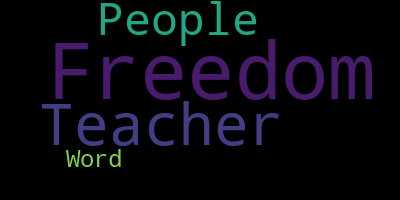
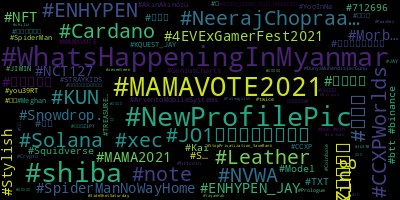
bwy Update ss_receiver & pipeline

diff --git a/frontend/src/components/HashtagRank.vue b/frontend/src/components/HashtagRank.vue
@@ -34,8 +34,12 @@ export default {
     },
   },
   created() {
-    this.getRank();
+    setInterval(this.getRank(), 1000);
+    //this.getRank();
   },
+  beforeUnmount(){
+    clearInterval(this.imagePath);
+  }
 }
 </script>
 

diff --git a/kafka_py/ss_receiver_proc_aggregation.py b/kafka_py/ss_receiver_proc_aggregation.py
@@ -35,30 +35,44 @@ if __name__ == "__main__":
     # sc.setLogLevel('ERROR')
     # ssc = StreamingContext(sc, 5)
 
-    spark = SparkSession.builder.appName('spark_word2vec').getOrCreate()
+    spark = SparkSession.builder.appName('spark_streaming').getOrCreate()
 
     spark.sparkContext.setLogLevel("WARN")
-    topic = 'quickstart-events'
+    topic = 'Twitter_streaming'
+    # topic = 'debug'
     bootstrap_servers = 'localhost:9092'
-    
+
     df = spark \
         .readStream \
         .format("kafka") \
         .option("kafka.bootstrap.servers", bootstrap_servers) \
         .option("subscribe", topic) \
         .load()
-    # df.selectExpr("CAST(key AS STRING)", "CAST(value AS STRING)") 
+    # df.selectExpr("CAST(key AS STRING)", "CAST(value AS STRING)")
 
     # Decode and Split the lines into words
+
+   # def get_text_info(x):
+   #     # spark sql json deserialize
+   #     # json_schema = spark.read.json(words.rdd.map(lambda row: row.json)).schema
+   #     text_map = from_json(x, "MAP<STRING,STRING>")
+   #     text_map = from_json(text_map["data"], "MAP<STRING,STRING>")
+   #     print("get_text_info:", text_map["text"], "!!!!!!!!!")
+   #     return text_map["text"]
+
+    @udf(returnType=StringType())
     def get_text_info(x):
-        # spark sql json deserialize 
+        # spark sql json deserialize
         # json_schema = spark.read.json(words.rdd.map(lambda row: row.json)).schema
-        text_map = from_json(x, "MAP<STRING,STRING>")
-        text_map = from_json(text_map["data"], "MAP<STRING,STRING>")
-        return text_map["text"]
-    
+        # print("get text info: input ------", x)
+        text_map = json.loads(x)['data']['text']
+        # text_map = from_json(text_map["data"], "MAP<STRING,STRING>")
+        # print("get_text_info:", text_map, "!!!!!!!!!")
+        return text_map
+
     @udf(returnType=StringType())
     def getHashTag(text):
+        # print("getHashTag:", text, ">>>>>>>>>>>")
         # hashtag & http
         # st = time.time()
         text = text.split(" ")
@@ -66,7 +80,7 @@ if __name__ == "__main__":
         for word in text:
             if word.startswith("#"):
                 hashtag_list.append(word)
-        
+
         hashtag = " ".join(hashtag_list)
         # print('hashtag time', time.time()-st)
         return hashtag
@@ -78,7 +92,7 @@ if __name__ == "__main__":
         text = text.split(" ")
         text = [word for word in text if word != "RT" or word[0] != "@" \
             or not word.startswith("#") or not word.startswith("http")]
-    
+
         # not english words
         text = " ".join(text)
         final_words = engtextproc.process(text)
@@ -88,7 +102,7 @@ if __name__ == "__main__":
     # engtextproc.load_vector_model()
     # vector_model = engtextproc.get_vector_model()
     @udf(returnType=StringType())
-    def get_vector(x):  
+    def get_vector(x):
         # global model
         print(type(x), x)
         words = x.split(" ")
@@ -103,7 +117,7 @@ if __name__ == "__main__":
         #         vector_lines.append([0.0])
         # print(vector_lines)
         return vector_lines
-        
+
     from pyspark.sql.functions import from_json, col
     # decode
     words = df.withColumn('value', decode(df.value, 'UTF-8'))  #.map(get_info)
@@ -139,21 +153,24 @@ if __name__ == "__main__":
         .groupBy(window(words.timestamp, "20 seconds", "5 seconds"),"hashtag") \
         .count()
 
-    # aggregation_query = words \
-    #     .writeStream \
-    #     .outputMode("update") \
-    #     .format("kafka") \
-    #     .option("checkpointLocation", "./wordcount_checkpoint") \
-    #     .option("kafka.bootstrap.servers", bootstrap_servers) \
-    #     .option("topic", "word_count") \
-    #     .start()
+    wordCounts.withColumn("value", wordCounts.hashtag)
 
     aggregation_query = wordCounts \
+        .selectExpr("CAST(window AS STRING) AS key", "to_json(struct(*)) AS value") \
         .writeStream \
-        .outputMode("complete") \
-        .format("console") \
-        .option("truncate", False) \
+        .outputMode("update") \
+        .format("kafka") \
+        .option("checkpointLocation", "./Twitter_WordCount_Checkpoint") \
+        .option("kafka.bootstrap.servers", bootstrap_servers) \
+        .option("topic", "Twitter_WordCount") \
         .start()
+
+    # aggregation_query = wordCounts \
+    #     .writeStream \
+    #     .outputMode("complete") \
+    #     .format("console") \
+    #     .option("truncate", False) \
+    #     .start()
 
     aggregation_query.awaitTermination()
 

diff --git a/kafka_py/stream_API.py b/kafka_py/stream_API.py
@@ -1,18 +1,19 @@
-import requests
-import os
-import json
 from kafka import KafkaProducer
-
+import json
+import math
+import os
+import requests
 import time
 
 # To set your environment variables in your terminal run the following line:
 # export 'BEARER_TOKEN'='<your_bearer_token>ß'
 bearer_token = os.environ.get("BEARER_TOKEN")
 bootstrap_server = "localhost:9092"
-
+topic = "Twitter_streaming"
+# topic = "debug"
 print(bearer_token)
 
-class twitter_stream():
+class TwitterStream():
     def create_url(self):
         return "https://api.twitter.com/2/tweets/sample/stream?expansions=author_id"
 
@@ -34,18 +35,33 @@ class twitter_stream():
         response = requests.request("GET", url, auth=self.bearer_oauth, stream=True)
         print(response.status_code)
         msg_cnt = 0
+        msg_all = 0
+        time_log = TimeLog()
+
         for response_line in response.iter_lines():
             if response_line:
                 json_response = json.loads(response_line)
                 if debug:
-                    print(json.dumps(json_response, indent=4, sort_keys=True))
+                    pass
+                    # print(json.dumps(json_response, indent=4, sort_keys=True))
                 if kafka_producer:
-                    kafka_producer.send("quickstart-events", json_response)
+                    kafka_producer.send(topic, json_response)
                 self.save_json_resp(json_response, f)
                 msg_cnt += 1
                 if num_to_get != None and msg_cnt >= num_to_get:
+                    msg_all += msg_cnt
+                    print("Current Batch:{}".format(msg_cnt))
+                    print("From Start:{:.2f} Seconds".format(time_log.from_start()))
+                    print("Since Last Time: {:.2f} Seconds".format(time_log.from_last()))
+                    print("Current Twitter API Speed: {} Tweets/Second".format(
+                            math.floor(msg_cnt / time_log.from_last())))
+                    print("Average Twitter API Speed: {} Tweets/Second".format(
+                            math.floor(msg_all / time_log.from_start())))
+                    time_log.lap()
+                    print("___________________Next Batch___________________")
                     kafka_producer.flush()
-                    #time.sleep(5)
+                    msg_cnt = 0
+                    # time.sleep(5)
                     # break
         if response.status_code != 200:
             raise Exception(
@@ -54,16 +70,36 @@ class twitter_stream():
                 )
             )
 
+class TimeLog():
+    def __init__(self):
+        self.start_time = time.time()
+        self.last_time = time.time()
+
+    def from_start(self):
+        current_time = time.time()
+        # return diff time, unit seconds
+        return current_time - self.start_time
+
+    def from_last(self):
+        current_time = time.time()
+        res = current_time - self.last_time
+        return res
+
+    def lap(self):
+        self.last_time = time.time()
+        return
+
+
 
 def main():
     producer = KafkaProducer(value_serializer=lambda v: json.dumps(v).encode('utf-8'),
             bootstrap_servers=bootstrap_server)
 
-    stream_ins = twitter_stream()
+    stream_ins = TwitterStream()
     timeout = 0
     f = open('tmp_data_folder/sampled_data_save_t1.txt', 'w')
     while True:
-        stream_ins.connect_to_endpoint(f, producer, 10)
+        stream_ins.connect_to_endpoint(f, producer, 100)
         timeout += 1
         break
 

diff --git a/kafka_py/word_count_consumer.py b/kafka_py/word_count_consumer.py
@@ -7,6 +7,7 @@ import datetime
 import wordcloud
 import json
 
+TOPIC = "Twitter_WordCount"
 
 class word_cloud_thread(threading.Thread):
     def __init__(self, thread_id, begin_timestamp):
@@ -23,13 +24,13 @@ class word_cloud_thread(threading.Thread):
         if self.word_frequency:
             wc = wordcloud.WordCloud()
             wc.generate_from_frequencies(self.word_frequency)
-            wc.to_file("WordCloud.png")
+            wc.to_file("../frontend/src/assets/WordCloud.png")
         print("I AM DONE.", self.thread_id)
 
     def update_word_frequency(self):
         for message in message_list:
-            print(message)
-            print(isinstance(message, ConsumerRecord))
+            # print(message)
+            # print(isinstance(message, ConsumerRecord))
             if isinstance(message, ConsumerRecord):
                 message_value = message.value.decode("utf8")
                 message_value = json.loads(message_value)
@@ -39,7 +40,7 @@ class word_cloud_thread(threading.Thread):
 
                 if message_edts - 5 <= self.begin_timestamp \
                         and self.begin_timestamp <= message_edts:
-                    self.word_frequency[message_value["word"]] = message_value["count"]
+                    self.word_frequency[message_value["hashtag"]] = message_value["count"]
 
 
 class word_consumer_thread(threading.Thread):
@@ -54,7 +55,7 @@ class word_consumer_thread(threading.Thread):
         self.dump_message()
 
     def _generate_consumer(self):
-        self.consumer = KafkaConsumer('word_count',
+        self.consumer = KafkaConsumer(TOPIC,
                 group_id="A",
                 bootstrap_servers= ['localhost:9092'],
                 enable_auto_commit = True,

diff --git a/flask_system/app.py b/flask_system/app.py
@@ -1,16 +1,17 @@
+from datetime import datetime
 from flask import Flask, send_file, jsonify
 from flask import request
 from flask_cors import CORS
-import os
-from datetime import datetime
 from random import randint
+import os
+
 app = Flask(__name__)
 CORS(app)
 
 @app.route('/')
 def hello_world():
     # return 'Hello Flask!'
-    return "This is Flask>"
+    return "This is Flask"
 
 @app.route("/hashtag_rank", methods=["GET"])
 def hashtag_rank():
